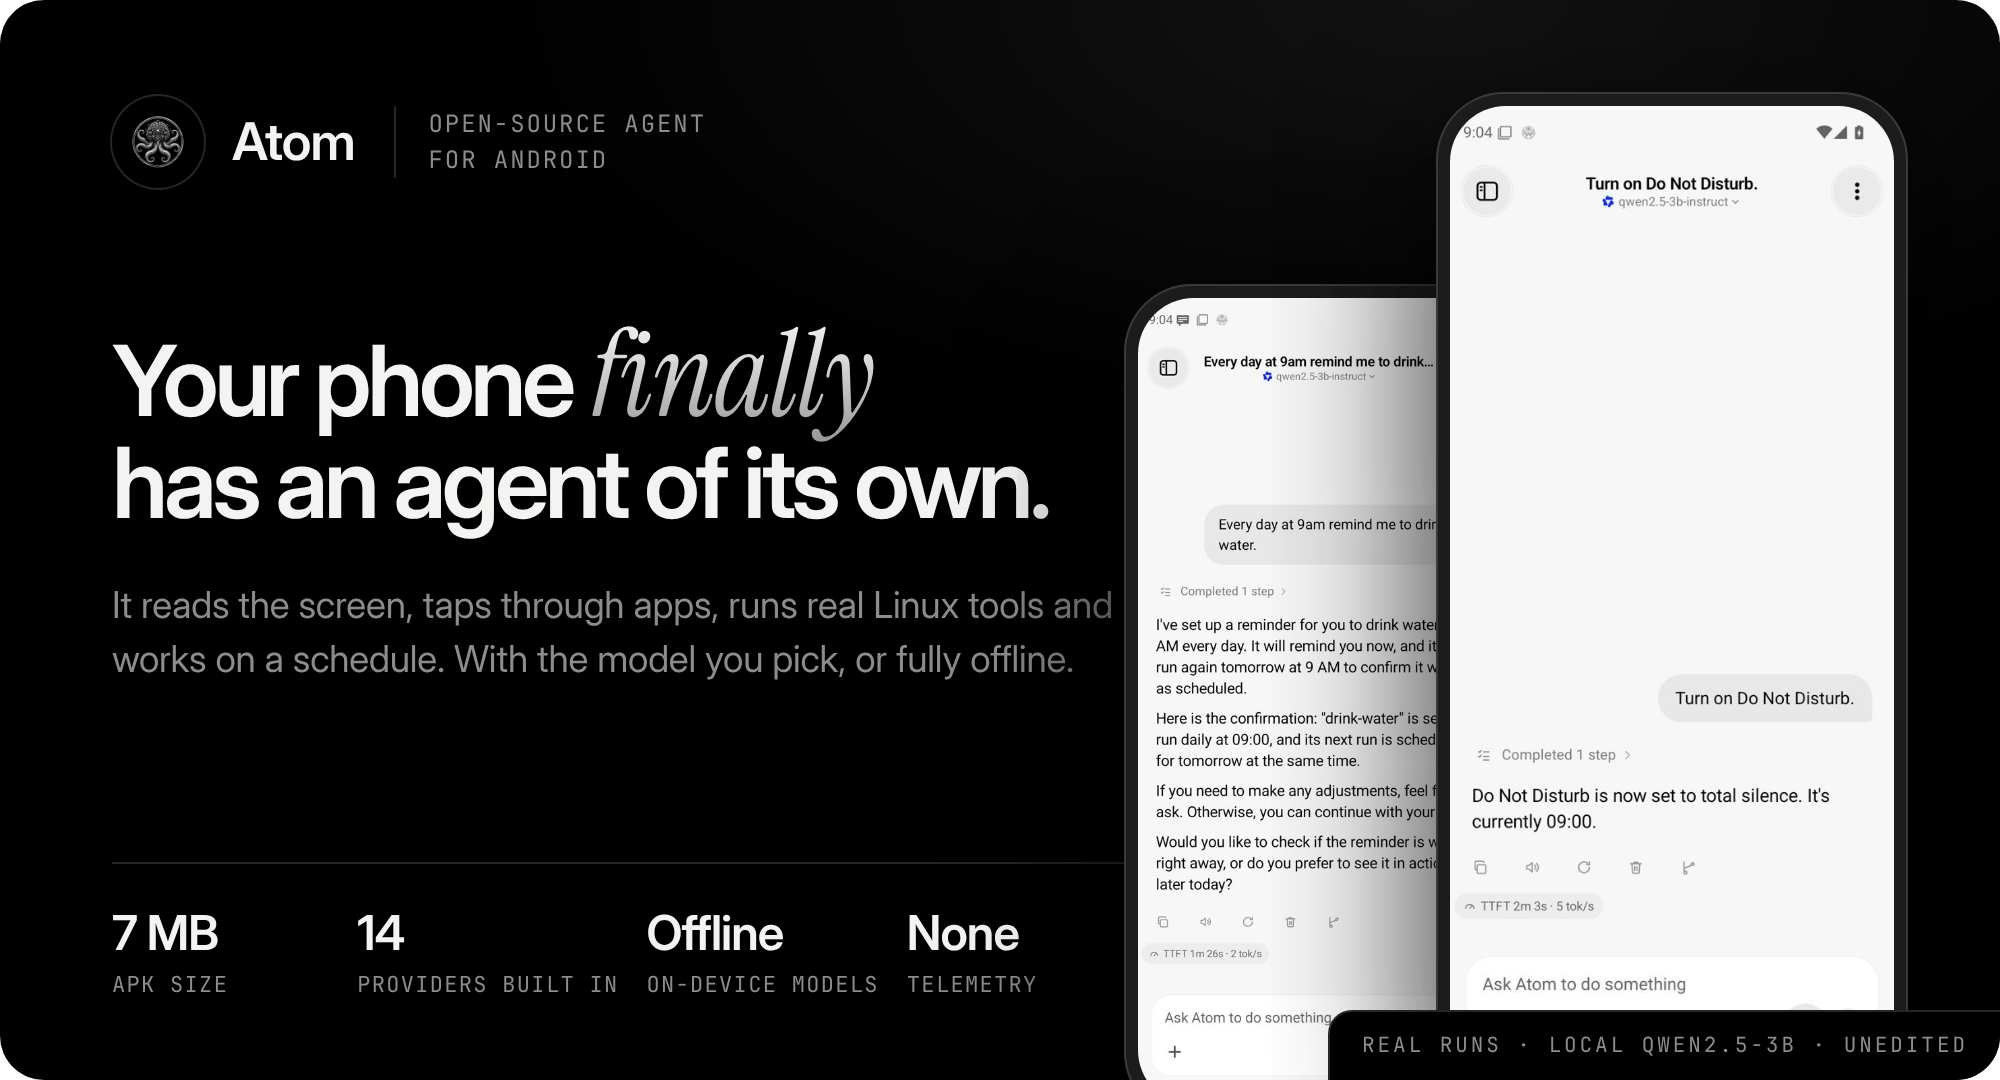
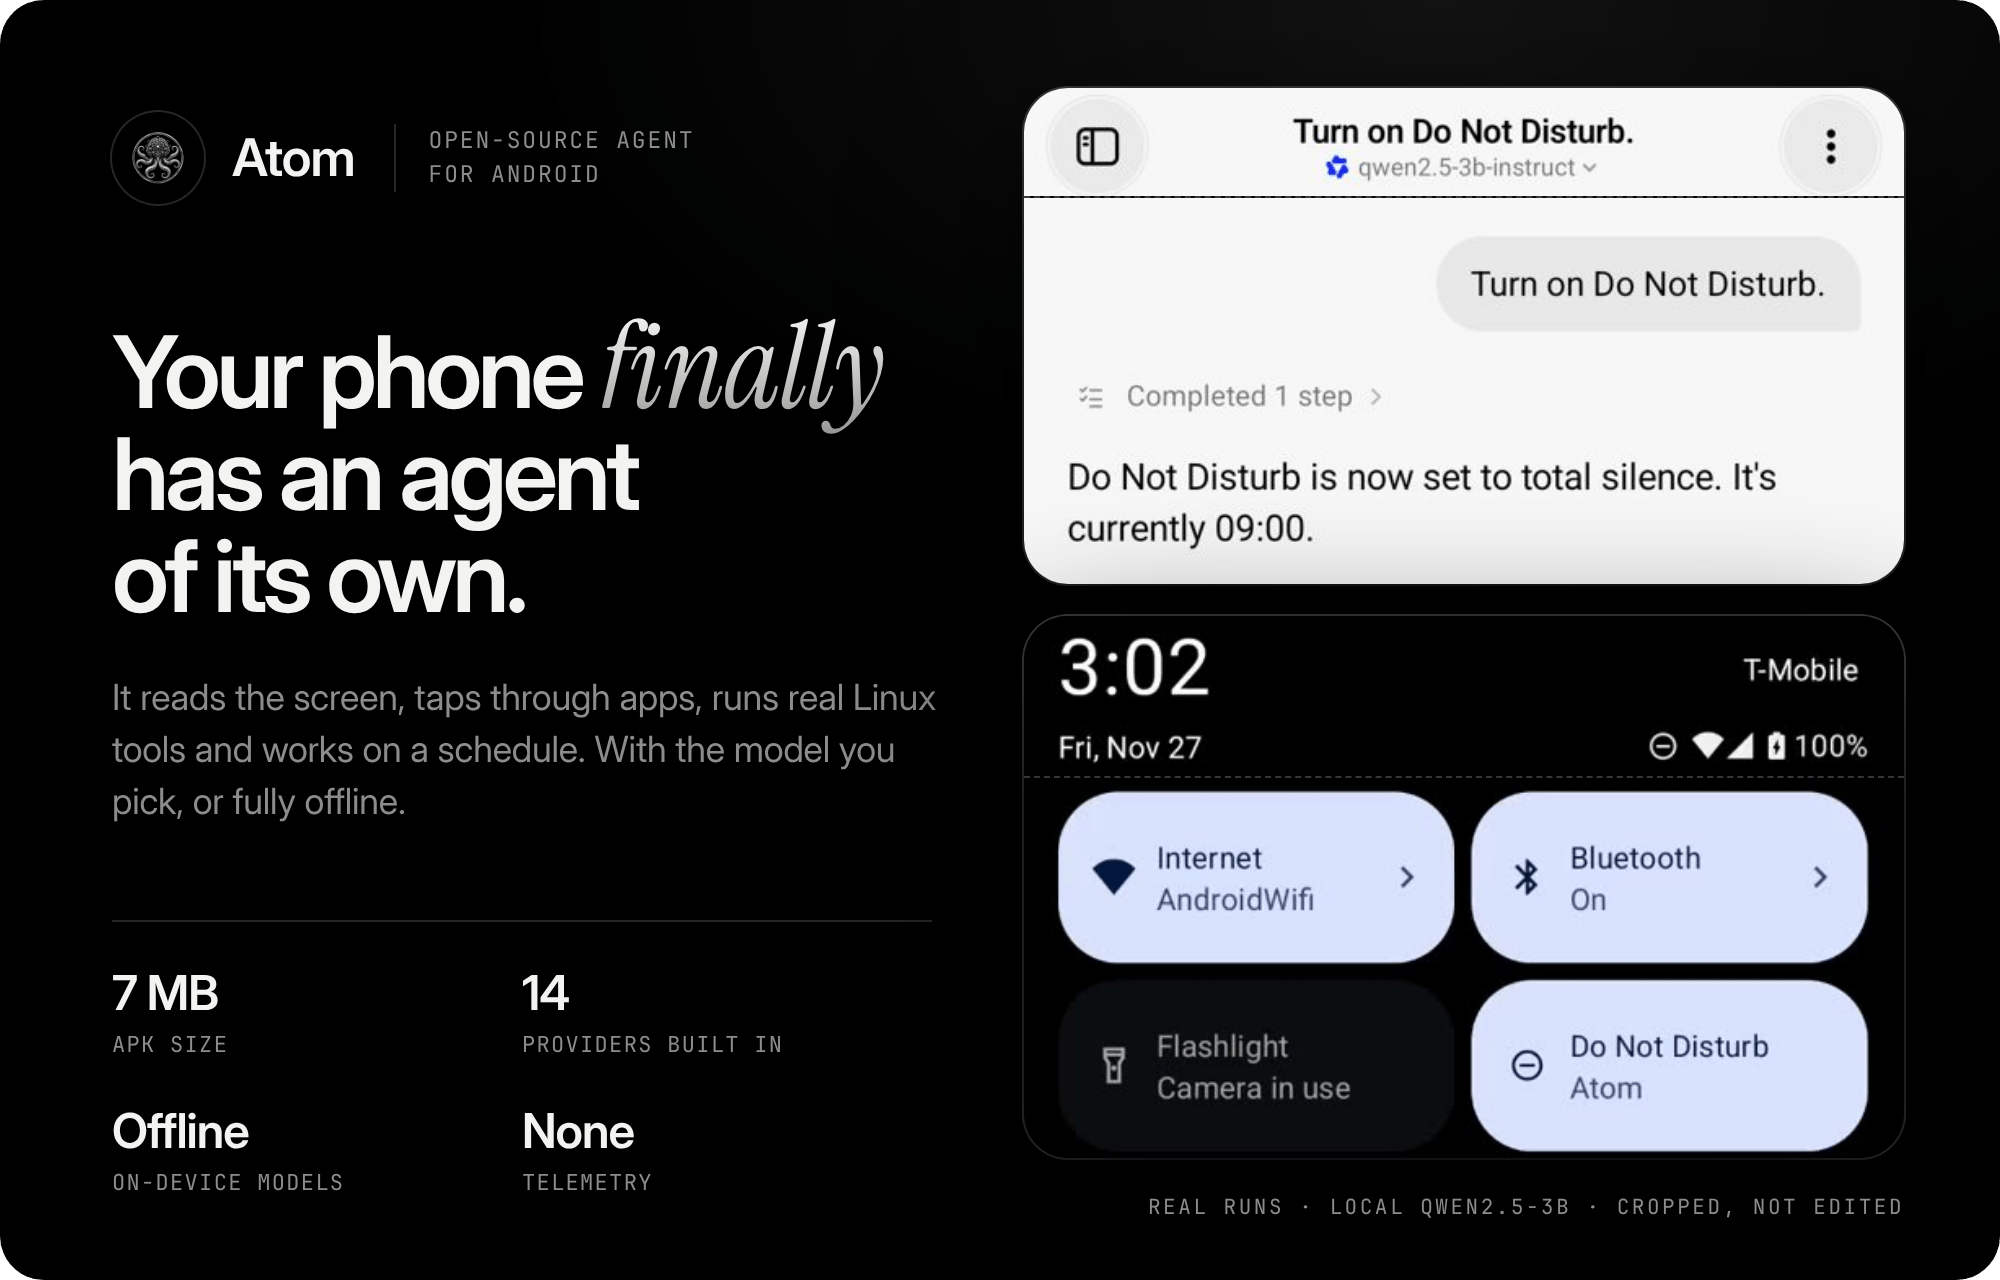
Front page: hero shows one real Do Not Disturb run up close, bubble close-ups, workbench from real runs

diff --git a/README.md b/README.md
@@ -2,7 +2,7 @@
   <picture>
     <source media="(prefers-color-scheme: dark)" srcset="docs/assets/hero-dark.png">
     <source media="(prefers-color-scheme: light)" srcset="docs/assets/hero-light.png">
-    <img src="docs/assets/hero-dark.png" width="100%" alt="Atom. Your phone finally has an agent of its own. It reads the screen, taps through apps, runs real Linux tools and works on a schedule, with the model you pick or fully offline. Shown: two real Atom runs, 'Turn on Do Not Disturb' and 'Every day at 9am remind me to drink water', done by a local 3B model.">
+    <img src="docs/assets/hero-dark.png" width="100%" alt="Atom. Your phone finally has an agent of its own. It reads the screen, taps through apps, runs real Linux tools and works on a schedule, with the model you pick or fully offline. Shown, cropped from real runs with a local 3B model: the request 'Turn on Do Not Disturb.', Atom's reply 'Do Not Disturb is now set to total silence', and the phone's quick settings with the Do Not Disturb tile on, set by Atom.">
   </picture>
 </p>
 
@@ -47,17 +47,17 @@ Atom opens apps, reads the screen, taps, types and scrolls, then looks again to 
 <picture>
   <source media="(prefers-color-scheme: dark)" srcset="docs/assets/plate-hands-dark.png">
   <source media="(prefers-color-scheme: light)" srcset="docs/assets/plate-hands-light.png">
-  <img src="docs/assets/plate-hands-dark.png" width="100%" alt="The floating bubble over the home screen, its hold menu, and the mini chat that opens over any app.">
+  <img src="docs/assets/plate-hands-dark.png" width="100%" alt="Close-ups of the floating bubble on the home screen, its hold menu with voice, chat and close, and the mini chat with a question typed in.">
 </picture>
 
 ### 02 &nbsp;A real workbench in your pocket
 
-A terminal with several sessions, and Linux on the phone: **Alpine or Debian**, in PRoot (no root needed) or a chroot (with root). Git, SSH, curl, jq and ripgrep come with the base install, and Python and Node are added on request. Atom writes code, runs it, reads the errors and fixes them. Scheduled tasks and phone-event automations run in the background and report back.
+A terminal with several sessions, and Linux on the phone: **Alpine or Debian**, in PRoot (no root needed) or a chroot (with root). Git, SSH, curl, jq and ripgrep come with the base install, and Python and Node are added on request. Atom writes code, runs it, reads the errors and fixes them. Its own browser shows every step, and you can take over. Scheduled tasks and phone-event automations run in the background and report back.
 
 <picture>
   <source media="(prefers-color-scheme: dark)" srcset="docs/assets/plate-bench-dark.png">
   <source media="(prefers-color-scheme: light)" srcset="docs/assets/plate-bench-light.png">
-  <img src="docs/assets/plate-bench-dark.png" width="100%" alt="The terminal, the Linux environment screen with Debian in PRoot, and Scheduled tasks.">
+  <img src="docs/assets/plate-bench-dark.png" width="100%" alt="Cropped from real runs: shell commands and their output in Atom's terminal, a daily reminder created from one sentence, and the agent browser's steps on example.com with a Take over button.">
 </picture>
 
 ### 03 &nbsp;Any model. Or no cloud at all.
@@ -72,7 +72,7 @@ A terminal with several sessions, and Linux on the phone: **Alpine or Debian**, 
 
 ### 04 &nbsp;It grows with you
 
-**Memory** you can read and edit. **Skills** installed from any public GitHub repo. **MCP** servers, with a switch for each tool. **Subagents** (explore, coder, plan, or your own) that work in parallel. **Voice**: dictation, spoken answers and an on-device "Hey Atom" wake word. An **agent browser** you can take over at any time.
+**Memory** you can read and edit. **Skills** installed from any public GitHub repo. **MCP** servers, with a switch for each tool. **Subagents** (explore, coder, plan, or your own) that work in parallel. **Voice**: dictation, spoken answers and an on-device "Hey Atom" wake word. **Images**: generate and edit them with the image model you choose.
 
 <picture>
   <source media="(prefers-color-scheme: dark)" srcset="docs/assets/plate-extend-dark.png">
